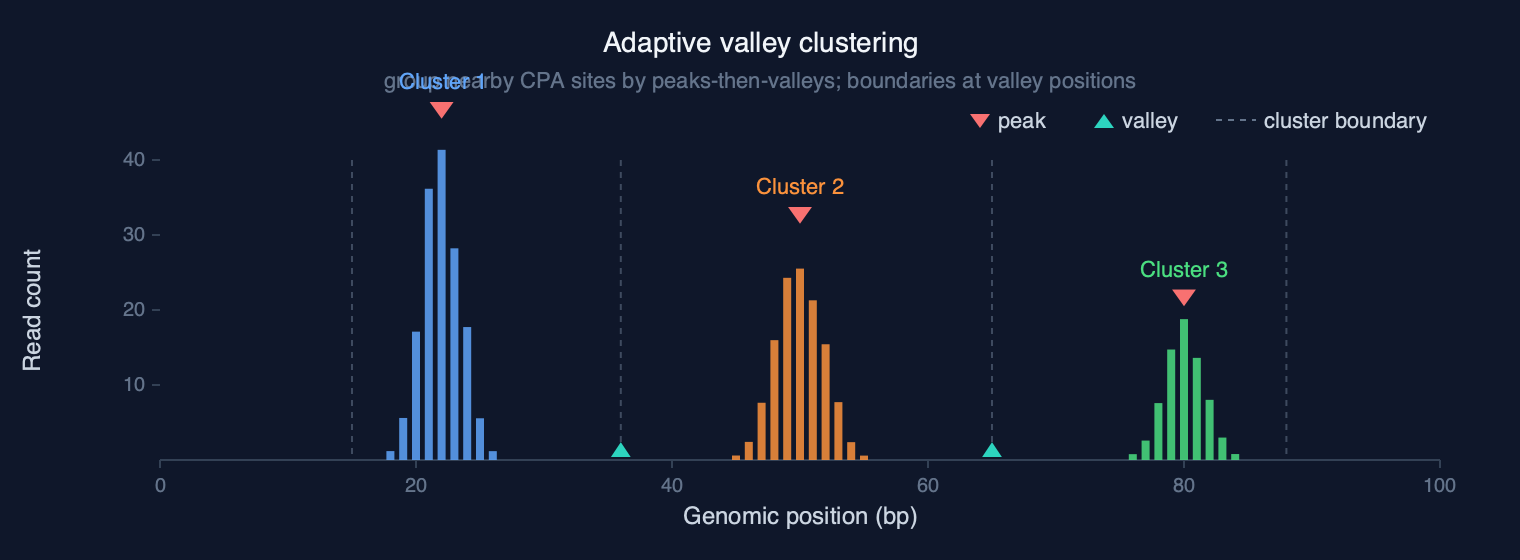
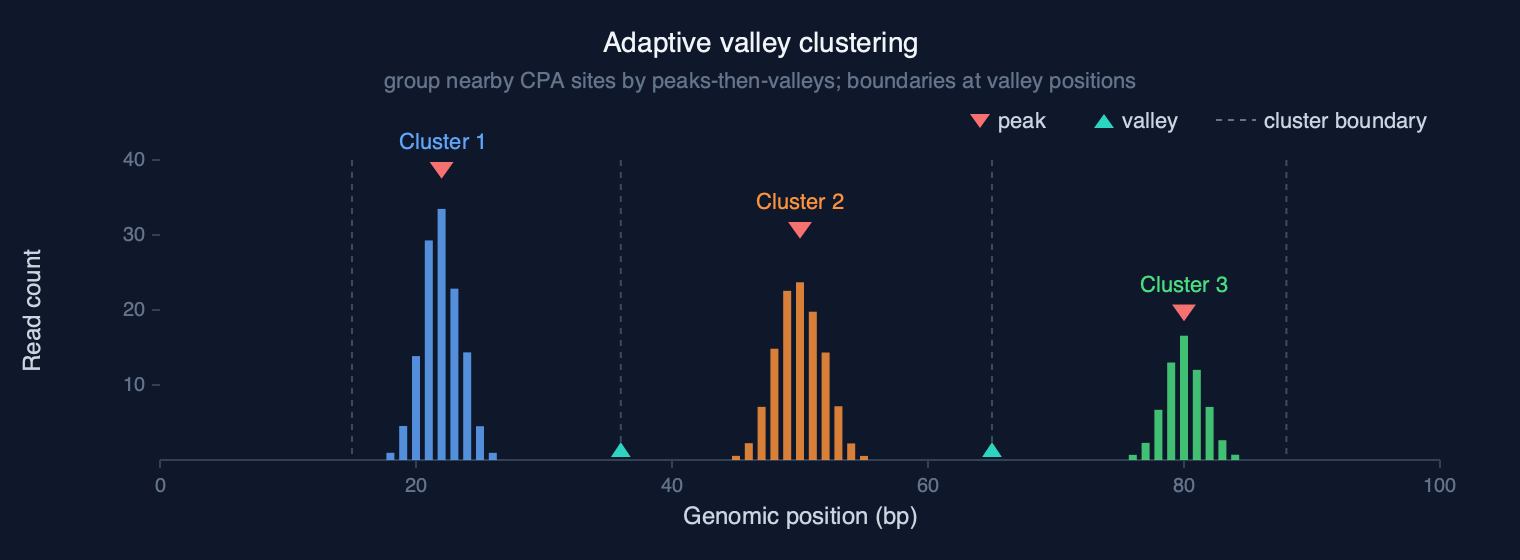
docs(readme+figs): fix label overflow, add run-all for cDNA/QSrev, remove broken link
README:
- Quick Start: add run-all + step-by-step for cDNA (--protocol cdna) and
  QSrev (--short-read --dT-primed-cDNA); QSrev step-by-step adds rectify analyze
- Remove broken docs/quickstart_cdna.md link (file doesn't exist yet)

walkback_readvsref:
- Right-anchor "seq err" brace label so it doesn't overflow past the
  pre-trim separator dashed line

adaptive_clustering:
- Reduce Cluster 1 peak from 42 → 34 (was overflowing Y_MAX=40, causing
  the cluster label to collide with the subtitle)
- Add SVG clipPath on bars so noisy bars can never render outside the plot area

diff --git a/docs/figures/generate_adaptive_clustering_v3.py b/docs/figures/generate_adaptive_clustering_v3.py
@@ -41,6 +41,12 @@ def svg_open(h):
         f'<?xml version="1.0" encoding="utf-8" ?>\n'
         f'<svg xmlns="http://www.w3.org/2000/svg" width="{FIG_W}" height="{h}" '
         f'viewBox="0 0 {FIG_W} {h}">\n'
+        f'<defs>'
+        f'<clipPath id="plot-clip">'
+        f'<rect x="{PLOT_X_LEFT}" y="{PLOT_Y_TOP}" '
+        f'width="{PLOT_X_RIGHT - PLOT_X_LEFT}" height="{PLOT_Y_BOT - PLOT_Y_TOP}"/>'
+        f'</clipPath>'
+        f'</defs>\n'
         f'<rect fill="{PAL["bg"]}" width="{FIG_W}" height="{h}"/>\n'
         f'<g font-family="{FONT}">'
     )
@@ -91,10 +97,11 @@ def build():
 
     # Three cluster definitions: (center_bp, sigma, peak_height, color, label)
     # Narrow sigma values give sharper, more realistic peaks.
+    # Peak heights kept well below Y_MAX so labels don't collide with the title.
     clusters = [
-        (22, 1.5, 42, PAL["blue"],   "Cluster 1"),
-        (50, 1.8, 28, PAL["orange"], "Cluster 2"),
-        (80, 1.6, 17, PAL["green"],  "Cluster 3"),
+        (22, 1.5, 34, PAL["blue"],   "Cluster 1"),
+        (50, 1.8, 26, PAL["orange"], "Cluster 2"),
+        (80, 1.6, 15, PAL["green"],  "Cluster 3"),
     ]
     # Valley positions (tight clusters → valleys are deeper)
     valleys = [36, 65]
@@ -140,8 +147,9 @@ def build():
                    f'stroke="{PAL["muted"]}" stroke-width="1" '
                    f'stroke-dasharray="3,3" opacity="0.55"/>')
 
-    # ── Histogram bars ──────────────────────────────────────────────────────
+    # ── Histogram bars (clipped to plot area) ──────────────────────────────
     bar_w = 4
+    out.append(f'<g clip-path="url(#plot-clip)">')
     for (center, sigma, peak, color, _) in clusters:
         # Generate bars at 1bp resolution with ±12% Poisson-like jitter
         bp_min = max(0, int(center - 5 * sigma))
@@ -159,6 +167,7 @@ def build():
             y = PLOT_Y_BOT - h
             out.append(f'<rect x="{x}" y="{y}" width="{bar_w}" height="{h}" '
                        f'fill="{color}" opacity="0.85"/>')
+    out.append('</g>')
 
     # ── Peak markers (small inverted triangles above peaks) ─────────────────
     for (center, sigma, peak, color, label) in clusters:

diff --git a/docs/figures/generate_walkback_v3.py b/docs/figures/generate_walkback_v3.py
@@ -220,9 +220,13 @@ def build():
     # A=A pairs (positions 3-8)
     out.append(brace_above(x_pos(3), x_pos(8) + BW, y_read - 4,
                            PAL["teal"], "A = A · walk in", label_dy=-9))
-    # Terminal seq error (position 9)
-    out.append(brace_above(x_pos(9), x_pos(9) + BW, y_read - 4,
-                           PAL["red"], "seq err", label_dy=-9))
+    # Terminal seq error (position 9) — right-anchor label to stay left of separator
+    bx1, bx2 = x_pos(9), x_pos(9) + BW
+    by = y_read - 4
+    out.append(f'<path d="M{bx1},{by} L{bx1},{by-5} L{bx2},{by-5} L{bx2},{by}" '
+               f'fill="none" stroke="{PAL["red"]}" stroke-width="1" opacity="0.7"/>')
+    out.append(text(bx2 - 2, by - 9, "seq err", size=10,
+                    color=PAL["red"], anchor="end", weight="600"))
     # Pre-trimmed region (positions 10-15)
     out.append(brace_above(x_pos(n_genome), x_pos(n_total - 1) + BW, y_read - 4,
                            PAL["muted"], "removed by pre-trim", label_dy=-9))

diff --git a/README.md b/README.md
@@ -167,7 +167,7 @@ The corrected BAMs feed four independent DESeq2 analyses. A gene that looks flat
 
 ## Quick start
 
-> Full quickstart guides: [ONT DRS](docs/quickstart.md) · [QuantSeq REV](docs/quickstart_quantseq_rev.md) · [ONT cDNA](docs/quickstart_cdna.md)
+> Full quickstarts: [ONT DRS](docs/quickstart.md) · [QuantSeq REV](docs/quickstart_quantseq_rev.md)
 
 ```bash
 pip install rectify-rna
@@ -189,18 +189,27 @@ rectify analyze    corrected.tsv --gff genes.gff -o results/
 ### ONT PCR-cDNA (PCB114.24)
 
 ```bash
-rectify correct-cdna  pcb114.bam --reference genome.fa -o out/
-rectify align         out/stage1_consensus.fastq.gz --genome genome.fa -o out/
-rectify cdna-analyze  out/stage1.rectified.bam --reference genome.fa --gff genes.gff -o out/
+# One command
+rectify run-all reads.bam --protocol cdna --organism yeast --output-dir results/
+
+# Step by step (any organism)
+rectify correct-cdna  pcb114.bam                      --reference genome.fa -o out/
+rectify align         out/stage1_consensus.fastq.gz    --genome genome.fa -o out/
+rectify cdna-analyze  out/stage1.rectified.bam         --reference genome.fa --gff genes.gff -o out/
 ```
 
 ### QuantSeq REV
 
 ```bash
-# Pass FASTQ to `rectify align --short-read` first — piping straight to
-# `rectify correct` bypasses the proper short-read aligner panel.
+# One command
+rectify run-all reads.fastq.gz --short-read --dT-primed-cDNA --genome genome.fa \
+    --annotation genes.gff --output-dir results/
+
+# Step by step — pass FASTQ to `rectify align --short-read` first;
+# piping straight to `rectify correct` bypasses the proper short-read aligner panel.
 rectify align   reads.fastq.gz --short-read --genome genome.fa -o aligned.bam
-rectify correct aligned.bam    --short-read --dT-primed-cDNA --genome genome.fa -o corrected.tsv
+rectify correct aligned.bam    --short-read --dT-primed-cDNA  --genome genome.fa -o corrected.tsv
+rectify analyze corrected.tsv  --gff genes.gff -o results/
 ```
 
 ### Multi-sample and HPC
@@ -289,7 +298,7 @@ For organism-specific poly(A) models and custom A-tract priors, see [docs/ARCHIT
 
 - **Algorithms** — [docs/algorithms/](docs/algorithms/) · [empirical HP scoring](docs/EMPIRICAL_HP_PENALTY_SCORING.md) · [3' indel correction](docs/algorithms/3prime_indel_correction.md) · [multi-aligner consensus](docs/algorithms/multi_aligner_consensus.md)
 - **Architecture / internals** — [docs/ARCHITECTURE.md](docs/ARCHITECTURE.md) (SAM tag namespace, walkback wrappers, module call graph)
-- **Quickstarts** — [DRS](docs/quickstart.md) · [QuantSeq REV](docs/quickstart_quantseq_rev.md) · [ONT cDNA](docs/quickstart_cdna.md)
+- **Quickstarts** — [DRS](docs/quickstart.md) · [QuantSeq REV](docs/quickstart_quantseq_rev.md)
 
 ---
 
